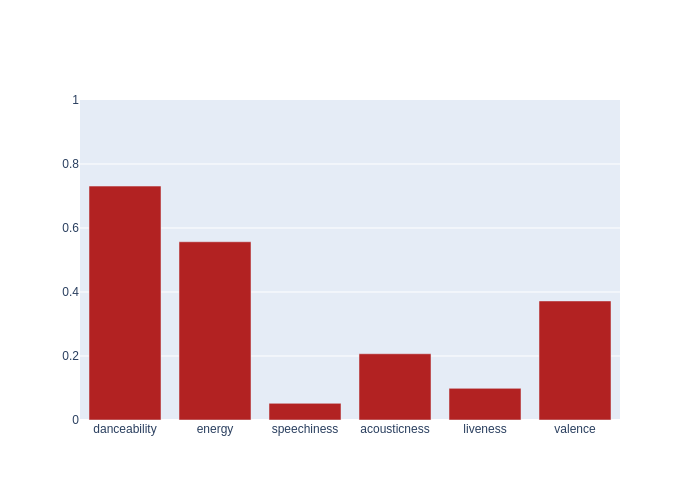
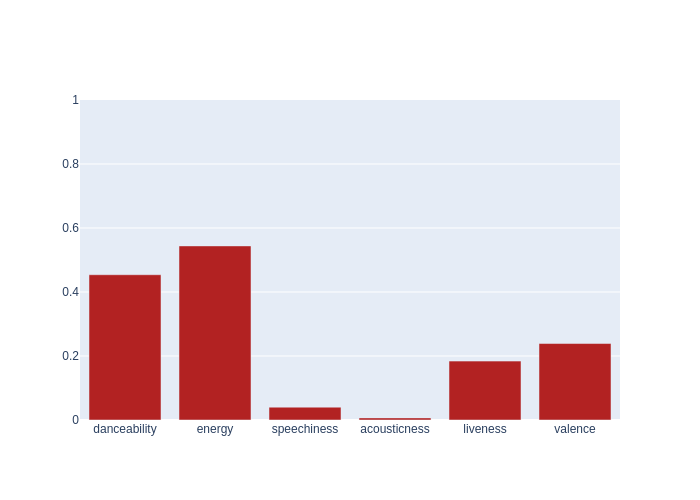
Automated README update

diff --git a/README.md b/README.md
@@ -4,7 +4,7 @@ Automated music metrics for fun, updated hourly.
 
 ## Spotify
 
-- currently listening to **Max Leone - Cautious**
+- currently listening to **Soudiere - I Be That Mf**
 
 - **869** liked songs
 - **138** playlists
